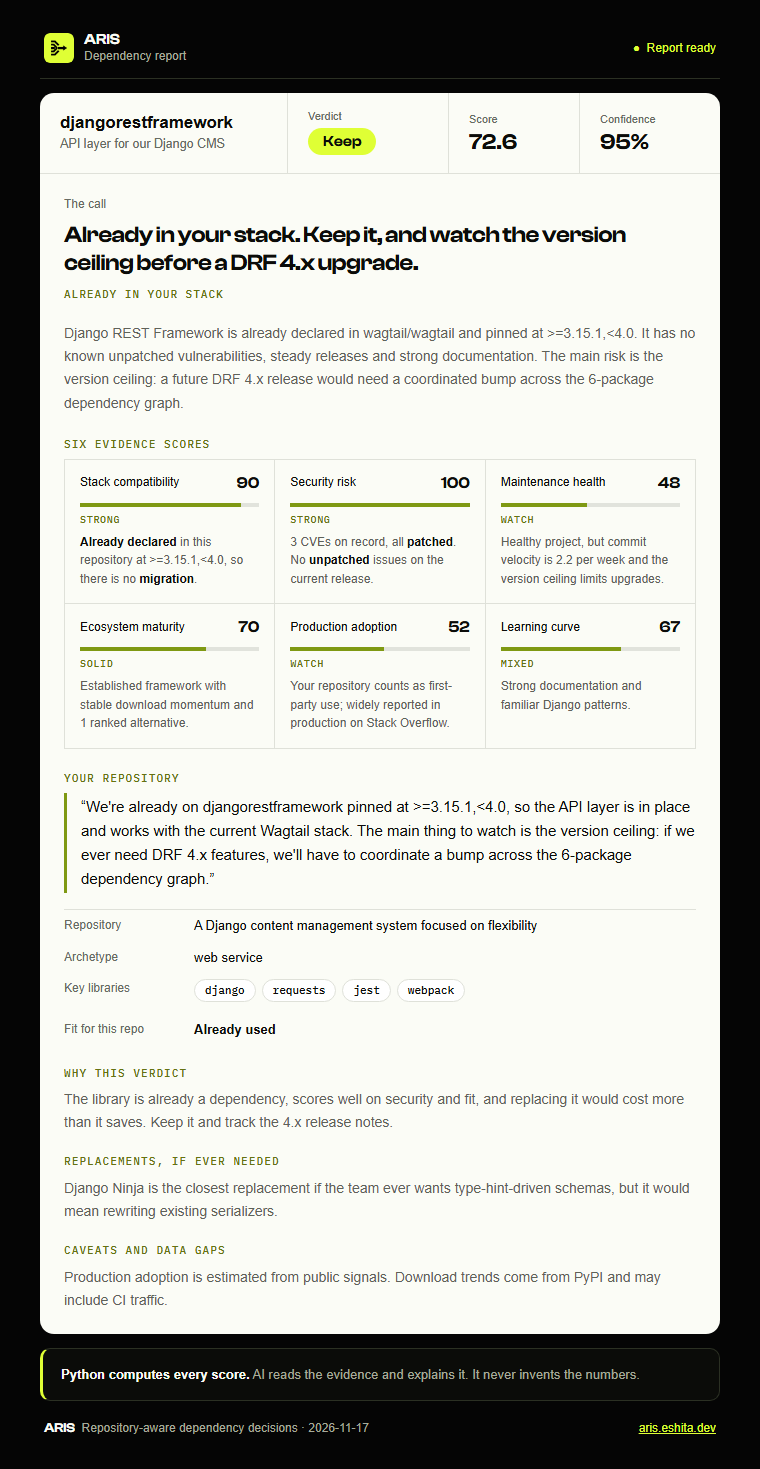
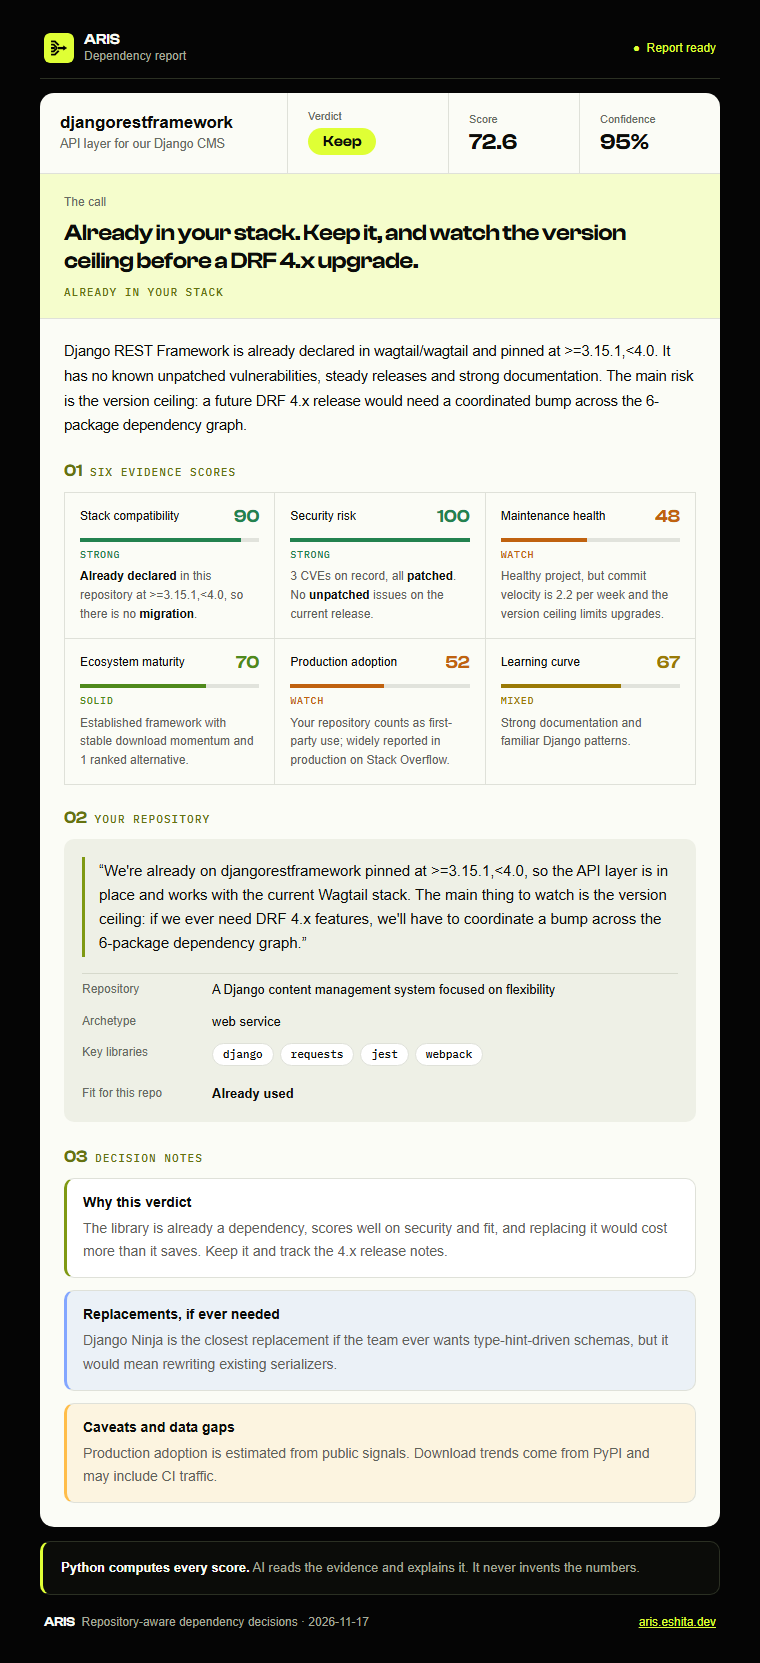
Make the emailed brief easier to scan; tidy the site and README
Email: scores are colored by strength, the call panel is tinted with the
verdict color, the repository sits on its own panel, and the decision
notes are separate cards with numbered sections.

Site: the report panel no longer reserves a fixed minimum height, so the
empty band under the saved-report note is gone.

README: new sample brief screenshot, the brief layout described as it
now looks, and no em dashes.

Changed region(s): [[0.0303, 0.0, 0.9684, 0.9803]]

diff --git a/web/styles.css b/web/styles.css
@@ -111,7 +111,7 @@ a, button { color: inherit; font: inherit; }
 .analysis-complete .analysis-status::before { background: var(--lime); animation: none; }
 @keyframes status-pulse { 50% { background: var(--lime); box-shadow: 0 0 12px var(--lime); } }
 
-.report-console { --verdict-color: var(--lime); position: absolute; z-index: 10; top: calc(max(700px, 100svh) - 300px); left: 50%; width: var(--shell); min-height: min(720px, calc(100svh - 82px)); padding: 14px; border: 1px solid #34392c; border-radius: 22px 22px 0 0; background: rgba(8,9,7,.98); color: var(--white); transform: translateX(-50%); transition: border-color 600ms ease, box-shadow 600ms ease; }
+.report-console { --verdict-color: var(--lime); position: absolute; z-index: 10; top: calc(max(700px, 100svh) - 300px); left: 50%; width: var(--shell); min-height: 0; padding: 14px 14px 16px; border: 1px solid #34392c; border-radius: 22px; background: rgba(8,9,7,.98); color: var(--white); transform: translateX(-50%); transition: border-color 600ms ease, box-shadow 600ms ease; }
 .report-console.is-ready { border-color: var(--verdict-color); box-shadow: 0 -10px 60px rgba(202,255,38,.08), 0 0 0 1px rgba(223,255,53,.06); }
 .report-bar { height: 60px; display: flex; align-items: center; justify-content: space-between; gap: 24px; padding: 0 8px 13px; border-bottom: 1px solid var(--line); }
 .report-brand { display: flex; align-items: center; gap: 10px; }
@@ -268,7 +268,7 @@ a, button { color: inherit; font: inherit; }
   .result-module::before { display: none; }
   .package-module { margin-top: 0; }
   .dimension-readouts { grid-template-columns: repeat(2,1fr); }
-  .report-console { width: calc(100% - 10px); padding: 8px; border-radius: 15px 15px 0 0; }
+  .report-console { width: calc(100% - 10px); padding: 8px; border-radius: 15px; }
   .report-tabs { grid-template-columns: repeat(5,minmax(105px,1fr)); overflow-x: auto; }
   .report-summary { grid-template-columns: 1fr 1fr; }
   .report-summary > div:nth-child(2) { border-right: 0; }
